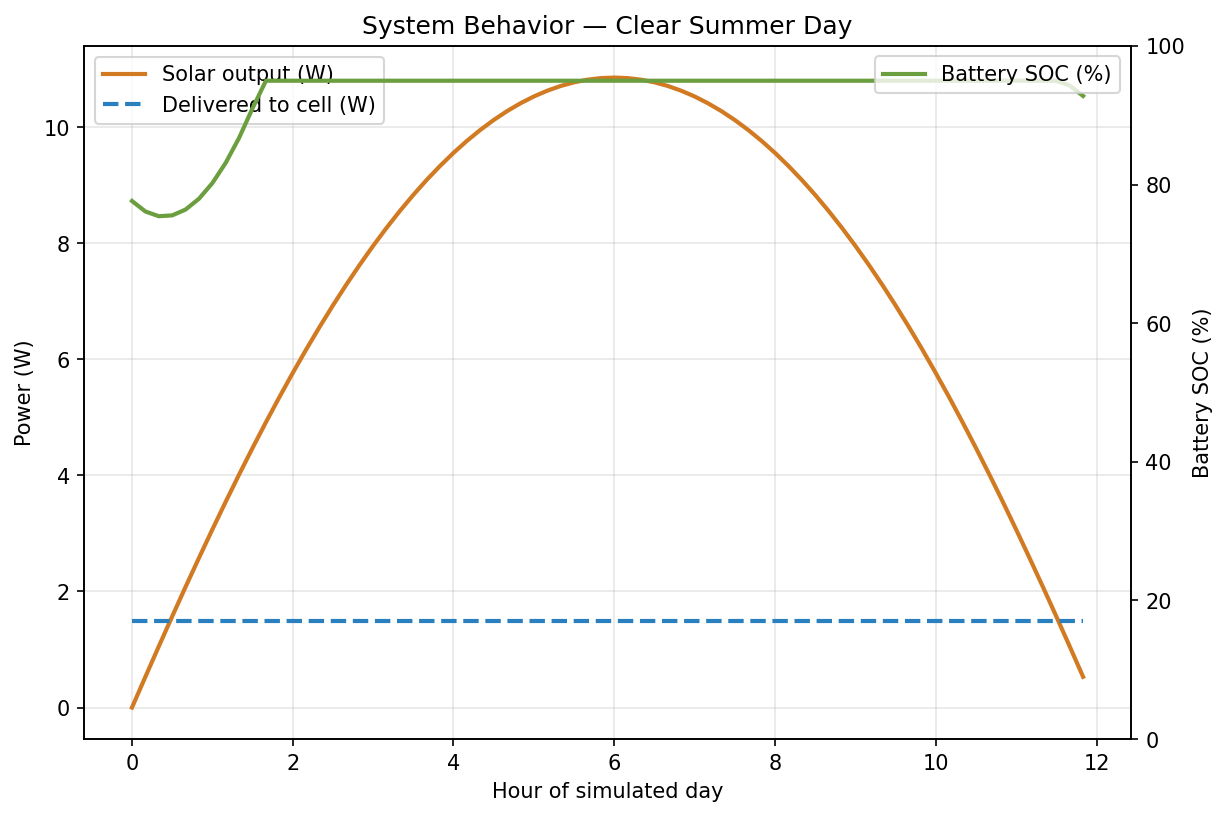
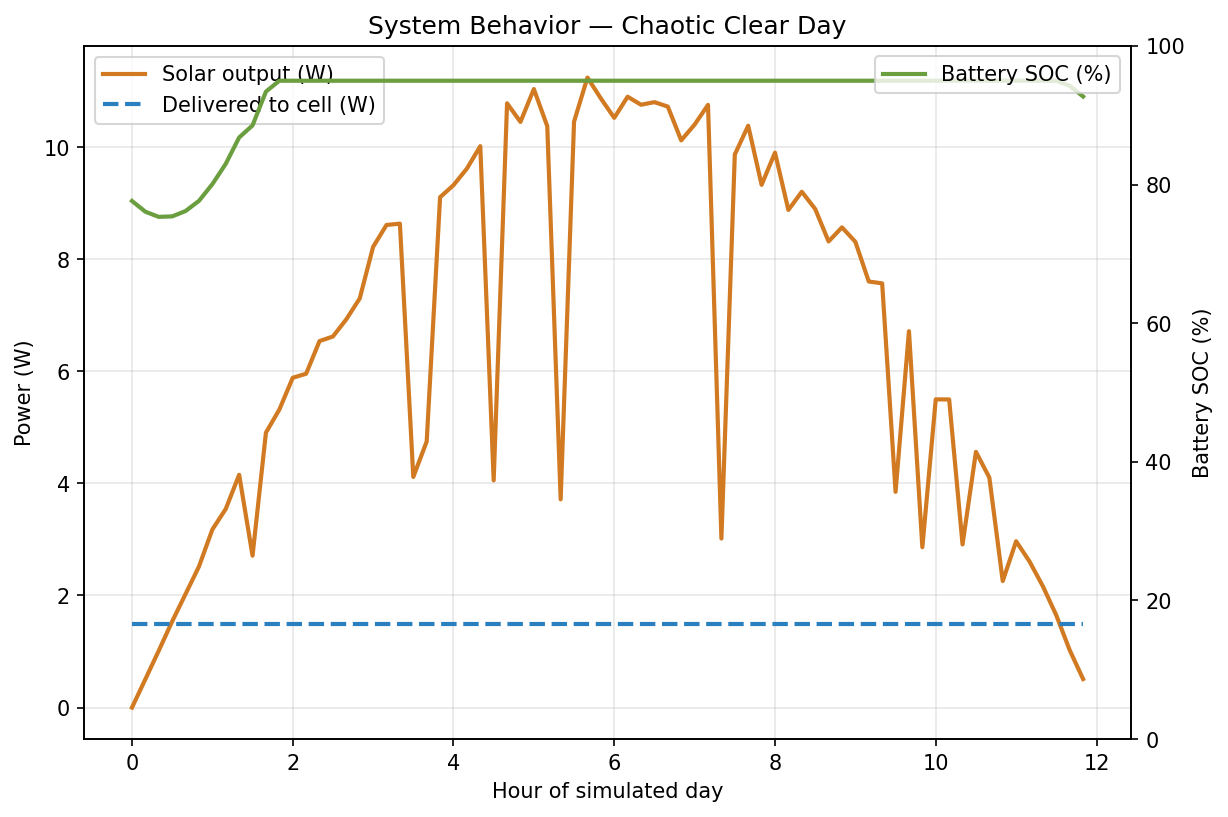
add chaotic irradiance model, battery SOC fix, and scenario comparison plots
- solar_profile now applies cloud events (12% chance, 30-70% drop) and
  atmospheric scatter (±5%) unconditionally; seeded per scenario for
  reproducible but distinct randomness patterns
- fixed battery.update: added deactivation guard before discharge math
  and SOC floor clamp after discharge to prevent negative SOC
- added high_current and cloudy_high_current scenarios (2.5A demand)
- __main__ runs three comparison scenarios and saves per-scenario folders
  under data/ each containing system behavior, V-I, efficiency, and H2 plots
- plotter functions accept operating_current to mark the scenario's
  operating point on physics plots

diff --git a/simulation/system_sim.py b/simulation/system_sim.py
@@ -3,6 +3,8 @@
 # Steps through time, logs results, and outputs a full data set for plotting. 
 
 import math
+import os
+import random
 from config import OPERATING_TEMP, AMBIENT_TEMP
 from solar_model import panel_power, panel_voltage
 from battery import BatteryModel
@@ -14,29 +16,6 @@ TIMESTEP_MINUTES = 10
 TIMESTEP_HOURS = TIMESTEP_MINUTES / 60
 SIMULATION_HOURS = 12       # Simulate a 12 hr daylight window
 TOTAL_STEPS =  int(SIMULATION_HOURS * 60 / TIMESTEP_MINUTES)
-
-def solar_profile(hour):
-    """
-    Models irradiance across a day using simple sine curve. 
-    Peaks at noon ( hour 6 of 12) at 1000 W/m^2
-    hour    : hour into simulated day (0 to 12)
-    returns : irradiance in W/m^2 
-    """
-    if hour < 0 or hour > SIMULATION_HOURS:
-        return 0
-    irradiance = 1000 * math.sin(math.pi * hour / SIMULATION_HOURS)
-    return max(0, irradiance)
-
-def temperature_profile(hour):
-    """
-    Models panel temperature across the day. 
-    Cool in morning, hot at peak sun. 
-    returns : panel temperature in Celsius (C)
-    """
-    base_temp= 20
-    peak_gain=25
-    temp = base_temp + peak_gain * math.sin(math.pi * hour / SIMULATION_HOURS)
-    return temp
 
 # ── DEFAULT SCENARIO ─────────────────────────────────────────────────
 DEFAULT_SCENARIO = {
@@ -52,15 +31,27 @@ DEFAULT_SCENARIO = {
 
 def solar_profile(hour, scenario):
     """
-    Models irradiance using a sine curve across the scenario's daylight window.
+    Models irradiance using a sine curve with realistic outdoor variability.
+
+    Two noise layers are always applied:
+      - Cloud events: 12% chance per timestep of a 30-70% irradiance drop
+      - Atmospheric scatter: ±5% multiplicative noise every timestep
     """
     total_hours = scenario["simulation_hours"]
     peak = scenario["peak_irradiance"]
 
     if hour < 0 or hour > total_hours:
         return 0
-    irradiance = peak * math.sin(math.pi * hour / total_hours)
-    return max(0, irradiance)
+
+    base_irradiance = peak * math.sin(math.pi * hour / total_hours)
+
+    cloud_factor = 1.0
+    if random.random() < 0.12:
+        cloud_factor = random.uniform(0.30, 0.70)
+
+    noise = random.uniform(0.95, 1.05)
+
+    return max(0, base_irradiance * cloud_factor * noise)
 
 
 def temperature_profile(hour, scenario):
@@ -189,27 +180,88 @@ SCENARIOS = {
         "peak_temperature"    : 35,
         "ambient_temperature" : 20,
     },
+    "chaotic_clear_day": {
+        "target_current"      : 1.0,
+        "initial_soc"         : 0.8,
+        "simulation_hours"    : 12,
+        "timestep_minutes"    : 10,
+        "peak_irradiance"     : 1000,
+        "peak_temperature"    : 50,
+        "ambient_temperature" : 22,
+        "chaotic"             : True,   # enables atmospheric scatter + cloud events
+    },
+    "high_current": {
+        "target_current"      : 2.5,
+        "initial_soc"         : 0.8,
+        "simulation_hours"    : 12,
+        "timestep_minutes"    : 10,
+        "peak_irradiance"     : 1000,
+        "peak_temperature"    : 50,
+        "ambient_temperature" : 22,
+    },
+    "cloudy_high_current": {
+        "target_current"      : 2.5,
+        "initial_soc"         : 0.8,
+        "simulation_hours"    : 12,
+        "timestep_minutes"    : 10,
+        "peak_irradiance"     : 400,
+        "peak_temperature"    : 28,
+        "ambient_temperature" : 18,
+    },
 }
 
 
 if __name__ == "__main__":
-    # Run the default scenario
-    print("=== Running default scenario ===\n")
-    data = run_simulation(SCENARIOS["clear_summer_day"])
+    # Deferred import to avoid circular dependency (plotter imports from system_sim at module level)
+    from plotter import (plot_system_over_time, plot_vi_curve,
+                         plot_hydrogen_vs_current, plot_efficiency_curve)
 
-    print(f"{'Hour':<8} {'Irr (W/m²)':<12} {'Solar (W)':<12} {'Delivered (W)':<15} {'SOC':<8} {'H2 (L)':<10}")
-    print("-" * 70)
-    for row in data[::6]:
-        print(f"{row['hour']:<8.2f} {row['irradiance']:<12.1f} {row['solar_power']:<12.4f} "
-              f"{row['delivered_power']:<15.4f} {row['battery_soc']:<8.1%} {row['h2_liters']:<10.6f}")
+    comparison_runs = [
+        ("high_current",        "high_current",        "plot_high_current.png",        1),
+        ("cloudy_day",          "cloudy",              "plot_cloudy.png",              2),
+        ("cloudy_high_current", "cloudy_high_current", "plot_cloudy_high_current.png", 3),
+    ]
 
-    total_h2 = sum(row["h2_liters"] for row in data)
-    print(f"\nTotal hydrogen: {total_h2:.4f} L")
+    for scenario_key, folder, filename, seed in comparison_runs:
+        random.seed(seed)
+        scenario = SCENARIOS[scenario_key]
+        out_dir  = os.path.join("data", folder)
+        os.makedirs(out_dir, exist_ok=True)
+        save_path = os.path.join(out_dir, filename)
 
-    # Run the V-I sweep
-    print("\n=== Running V-I sweep ===\n")
-    sweep = run_vi_sweep(0.1, 3.0, 0.2)
-    print(f"{'Current (A)':<12} {'V_act':<10} {'V_ohm':<10} {'V_total':<10}")
-    print("-" * 45)
-    for row in sweep:
-        print(f"{row['current']:<12.2f} {row['activation']:<10.4f} {row['ohmic']:<10.4f} {row['total']:<10.4f}")
+        data = run_simulation(scenario)
+
+        total_h2  = sum(row["h2_liters"] for row in data)
+        min_soc   = min(row["battery_soc"] for row in data)
+        statuses  = {row["battery_status"] for row in data}
+
+        print(f"\n{'=' * 50}")
+        print(f"  Scenario : {scenario_key.replace('_', ' ').title()}")
+        print(f"  Current  : {scenario['target_current']} A  |  Peak irradiance: {scenario['peak_irradiance']} W/m²")
+        print(f"  Total H2 : {total_h2:.4f} L")
+        print(f"  Min SOC  : {min_soc:.1%}")
+        print(f"  Warning  : {'YES' if 'warning'  in statuses else 'no'}")
+        print(f"  Critical : {'YES' if 'critical' in statuses else 'no'}")
+        print(f"  Plot     : {save_path}")
+
+        # Re-seed so plot_system_over_time's internal run_simulation sees the
+        # same random sequence and matches what the summary above printed.
+        random.seed(seed)
+        plot_system_over_time(scenario_name=scenario_key, save_path=save_path)
+
+        op_current = scenario["target_current"]
+        plot_vi_curve(
+            save_path=os.path.join(out_dir, "plot_vi_curve.png"),
+            operating_current=op_current,
+        )
+        plot_hydrogen_vs_current(
+            save_path=os.path.join(out_dir, "plot_hydrogen_vs_current.png"),
+            operating_current=op_current,
+        )
+        plot_efficiency_curve(
+            save_path=os.path.join(out_dir, "plot_efficiency_curve.png"),
+            operating_current=op_current,
+        )
+
+    print(f"\n{'=' * 50}")
+    print("All scenarios complete.")

diff --git a/simulation/plotter.py b/simulation/plotter.py
@@ -12,10 +12,11 @@ from system_sim import run_simulation, run_vi_sweep, SCENARIOS
 from faraday import calculate_production_rate
 
 
-def plot_vi_curve(save_path=None):
+def plot_vi_curve(save_path=None, operating_current=None):
     """
     Plot 1 — V-I curve with stacked overpotential breakdown.
     Shows how much voltage each loss mechanism contributes at every current.
+    operating_current : if provided, draws a vertical marker at that operating point.
     """
     data = run_vi_sweep(current_min=0.05, current_max=3.0, step=0.05)
 
@@ -47,6 +48,12 @@ def plot_vi_curve(save_path=None):
     # Total voltage line
     ax.plot(currents, total, color="black", linewidth=2, label="Total cell voltage")
 
+    if operating_current is not None:
+        v_at_op = next(row["total"] for row in data
+                       if abs(row["current"] - operating_current) < 0.026)
+        ax.axvline(x=operating_current, color="red", linestyle="--", linewidth=1.5,
+                   label=f"Operating point — {operating_current}A / {v_at_op:.3f}V")
+
     ax.set_xlabel("Current (A)")
     ax.set_ylabel("Voltage (V)")
     ax.set_title("Predicted V-I Curve — Overpotential Breakdown")
@@ -60,7 +67,7 @@ def plot_vi_curve(save_path=None):
     plt.show()
 
 
-def plot_system_over_time(scenario_name="clear_summer_day", save_path=None):
+def plot_system_over_time(scenario_name="chaotic_clear_day", save_path=None):
     """
     Plot 2 — Solar, battery, and delivered power across a simulated day.
     Shows the battery's role as a buffer between variable solar and steady demand.
@@ -96,16 +103,27 @@ def plot_system_over_time(scenario_name="clear_summer_day", save_path=None):
     plt.show()
 
 
-def plot_hydrogen_vs_current(save_path=None):
+def plot_hydrogen_vs_current(save_path=None, operating_current=None):
     """
     Plot 3 — Hydrogen production rate as a function of current.
     Demonstrates Faraday's law — perfectly linear relationship.
+    operating_current : if provided, draws a crosshair marker at that operating point.
     """
     currents = [i * 0.1 for i in range(1, 31)]  # 0.1A to 3.0A
     rates = [calculate_production_rate(i) for i in currents]
 
     fig, ax = plt.subplots(figsize=(9, 6))
     ax.plot(currents, rates, color="#2a7fbf", linewidth=2, marker="o", markersize=4)
+
+    if operating_current is not None:
+        rate_at_op = calculate_production_rate(operating_current)
+        ax.axvline(x=operating_current, color="red", linestyle="--", linewidth=1.5)
+        ax.axhline(y=rate_at_op, color="red", linestyle=":", linewidth=1, alpha=0.6)
+        ax.annotate(f"{operating_current}A → {rate_at_op:.3f} L/hr",
+                    xy=(operating_current, rate_at_op),
+                    xytext=(operating_current + 0.15, rate_at_op - 0.04),
+                    color="red", fontsize=9)
+
     ax.set_xlabel("Operating current (A)")
     ax.set_ylabel("Hydrogen production rate (L/hr)")
     ax.set_title("Hydrogen Production vs Current — Faraday's Law")
@@ -116,11 +134,12 @@ def plot_hydrogen_vs_current(save_path=None):
     plt.show()
 
 
-def plot_efficiency_curve(save_path=None):
+def plot_efficiency_curve(save_path=None, operating_current=None):
     """
     Plot 4 — Voltaic efficiency as a function of current.
     Efficiency = thermoneutral voltage / actual voltage.
     Reveals the operating sweet spot.
+    operating_current : if provided, draws a vertical marker at that operating point.
     """
     data = run_vi_sweep(current_min=0.05, current_max=3.0, step=0.05)
 
@@ -129,6 +148,14 @@ def plot_efficiency_curve(save_path=None):
 
     fig, ax = plt.subplots(figsize=(9, 6))
     ax.plot(currents, efficiency, color="#6b9e3f", linewidth=2)
+
+    if operating_current is not None:
+        eff_at_op = next(1.48 / row["total"] * 100 for row in data
+                         if abs(row["current"] - operating_current) < 0.026)
+        ax.axvline(x=operating_current, color="red", linestyle="--", linewidth=1.5,
+                   label=f"Operating point — {operating_current}A / {eff_at_op:.1f}%")
+        ax.legend(loc="upper right")
+
     ax.set_xlabel("Operating current (A)")
     ax.set_ylabel("Voltaic efficiency (%)")
     ax.set_title("Cell Efficiency vs Operating Current")
@@ -142,10 +169,8 @@ def plot_efficiency_curve(save_path=None):
 
 if __name__ == "__main__":
     print("Generating all plots...")
-    if __name__ == "__main__":
-        print ("Generating all plots...")
-        plot_vi_curve(save_path="data/plot_vi_curve.png")
-        plot_system_over_time(save_path="data/plot_system_over_time.png")
-        plot_hydrogen_vs_current(save_path="data/plot_hydrogen_vs_current.png")
-        plot_efficiency_curve(save_path="data/plot_efficiency_curve.png")
-        print("Done. Plots saved to /data folder.")
+    plot_vi_curve(save_path="data/plot_vi_curve.png")
+    plot_system_over_time(save_path="data/plot_system_over_time.png")
+    plot_hydrogen_vs_current(save_path="data/plot_hydrogen_vs_current.png")
+    plot_efficiency_curve(save_path="data/plot_efficiency_curve.png")
+    print("Done. Plots saved to /data folder.")

diff --git a/simulation/battery.py b/simulation/battery.py
@@ -50,6 +50,10 @@ class BatteryModel:
         """
         net_power = solar_power - cell_power
 
+        if self.soc <= MIN_STATE_OF_CHARGE and net_power < 0:
+            self.status = "deactivated"
+            return 0
+
         if net_power > 0:
             self.status = "charging"
             energy_in = net_power * timestep_hours * BATTERY_EFFICIENCY
@@ -61,6 +65,7 @@ class BatteryModel:
             self.status = "discharging"
             energy_out = abs(net_power) * timestep_hours / BATTERY_EFFICIENCY
             self.soc -= energy_out / BATTERY_ENERGY_MAX
+            self.soc = max(self.soc, MIN_STATE_OF_CHARGE)
             delivered_power = cell_power
 
         else:
